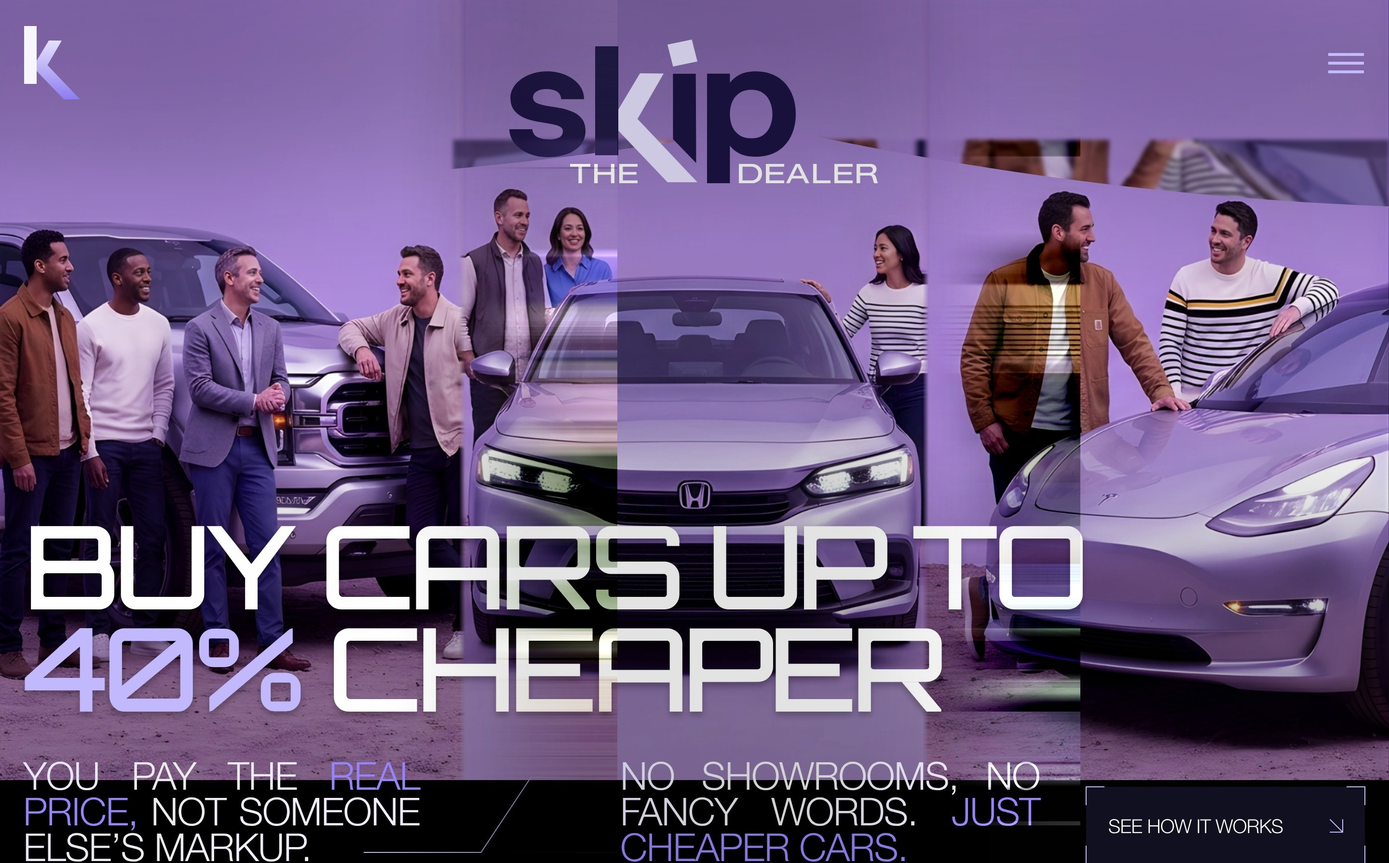
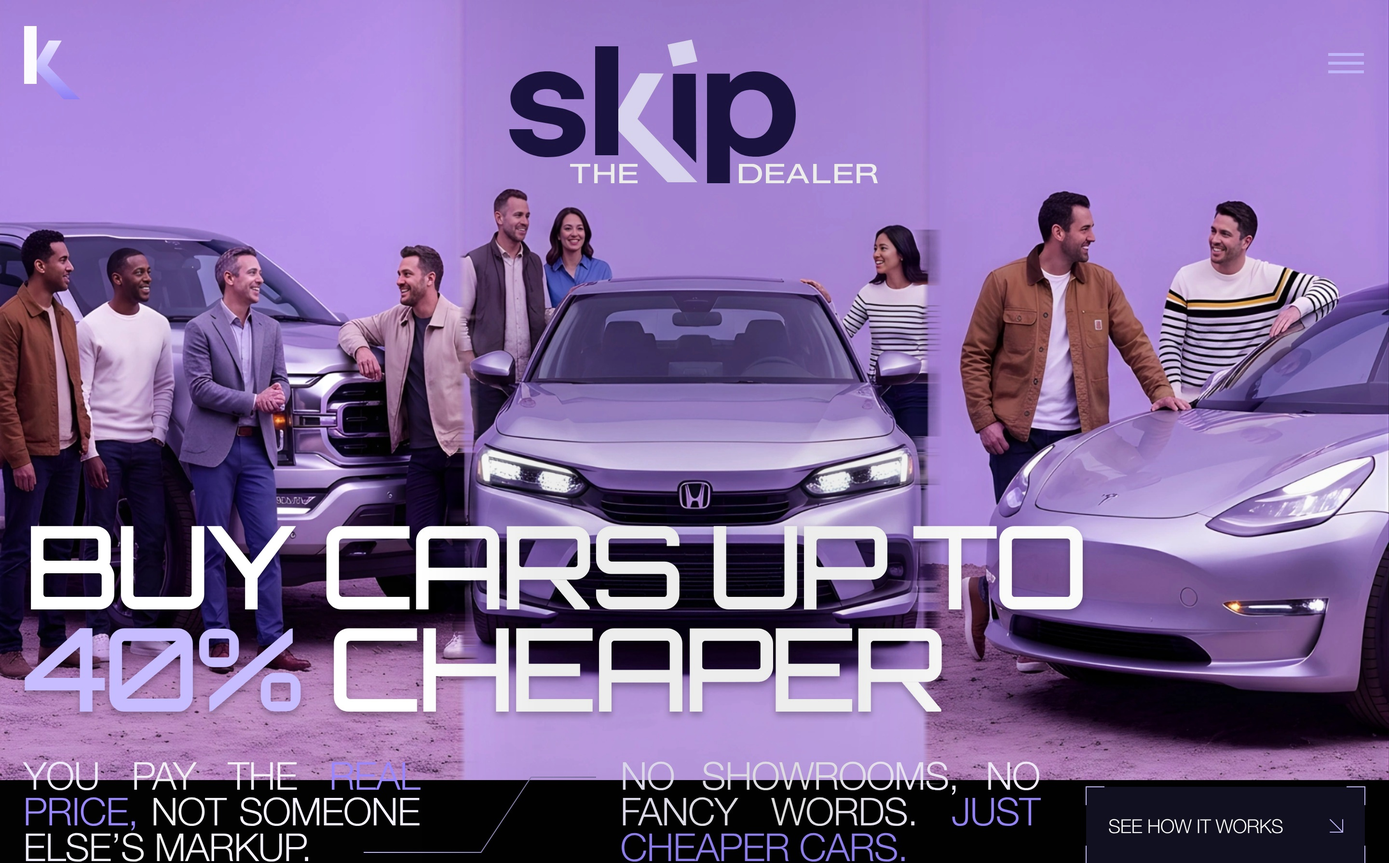
Fix hero glitches: strip the 5 foreignObject backdrop-filter blocks and the two 0.30-opacity Ellipse groups that Chrome rendered as black/milky rectangles inside the SVG; rebuild the frame from the clean render, level the collage panels, contain-fit with edge-coloured letterbox

diff --git a/assets/css/page-dealer-hero.css b/assets/css/page-dealer-hero.css
@@ -12,15 +12,11 @@ html, body {
 
 .page-dealer-hero { background: #020202; }
 
-/* ══ HERO — 1:1 з макетом Figma ═════════════════════════════════════════ */
-/* Герой — це сам експорт Figma: vector SVG з viewBox 0 0 1440 895, у якому
-   лежить і фото (вбудований webp 2400px), і весь текст, і намальований ≡,
-   і CTA. Нічого не перезбирається з частин і не растеризується, тому
-   результат ідентичний макету 1:1 — і лишається векторним (чітким) при
-   будь-якому масштабі.
-   Артборд вписується цілком (contain) по обох осях: композиція ніколи не
-   обрізається, CTA завжди в кадрі. Поля, які лишає contain, заповнюються тим
-   самим кадром у блюрі — тобто продовженням фото, а не порожнечею. */
+/* ══ HERO — 1:1 з макетом, цілком у кадрі ═══════════════════════════════ */
+/* Кадр — один растровий рендер артборда Figma (2880x1790 з оригінального SVG,
+   очищений від foreignObject-глюків). Вписується ЦІЛКОМ (contain) по обох осях:
+   композиція ніколи не обрізається. Поля заповнюються продовженням кадру:
+   зверху/знизу — кольором краю, зліва/справа — його ж крайніми колонками. */
 .dh {
   position: relative;
   width: 100%;
@@ -28,57 +24,39 @@ html, body {
   min-height: 420px;
   overflow: hidden;
   box-sizing: border-box;
-  background: #8165a7;   /* = точный цвет верхнего края кадра (129,101,167) */
+  /* колір = середній тон лівого/правого краю кадру, тому поля зливаються з ним */
+  background: #8b78b5;
 }
 
-/* Поля, которые оставляет contain-вписывание, продолжаются цветом самого края
-   макета: сверху — стена (96,66,139), снизу — тёмная полоса (33,25,43),
-   слева/справа — края стены. Разброс цвета по краю < 10, поэтому плоская
-   заливка неотличима от продолжения кадра и ничего не срезает. */
-.dh::before,
-.dh::after {
-  content: "";
+.dh__pad-top,
+.dh__pad-bottom {
   position: absolute;
   left: 0;
   right: 0;
+  height: var(--pad-y, 0px);
   pointer-events: none;
-  z-index: 0;
+  z-index: 1;
 }
-.dh::before {
-  top: 0;
-  height: var(--dh-pad-top, 0px);
-  background: #8165a7;   /* точный верхний край кадра */
-}
-.dh::after {
-  bottom: 0;
-  height: var(--dh-pad-bottom, 0px);
-  background: #050408;   /* точный нижний край кадра */
-}
+.dh__pad-top    { top: 0;    background: #7d63a8; }   /* верхний край кадра */
+.dh__pad-bottom { bottom: 0; background: #0a0710; }   /* нижний край кадра */
 
-/* сам артборд Figma, 1:1, vector */
-.dh__art {
+
+.dh__frame {
   position: absolute;
   left: 50%;
   top: 50%;
-  width: 1440px;
-  height: 895px;
-  /* s = min(W/1440, H/895), задається з JS */
-  transform: translate(-50%, -50%) scale(var(--dh-s, 1));
-  transform-origin: center center;
-  box-sizing: border-box;
-  z-index: 1;
-}
-
-.dh__art-img {
-  position: absolute;
-  inset: 0;
-  width: 100%;
-  height: 100%;
+  transform: translate(-50%, -50%);
   display: block;
-  object-fit: fill;
+  z-index: 2;
 }
 
-
+.dh__stage {
+  position: absolute;
+  left: 50%;
+  top: 50%;
+  transform: translate(-50%, -50%);
+  z-index: 3;
+}
 
 .dh__hit, .dh__burger { position: absolute; }
 

diff --git a/assets/js/page-dealer-hero.js b/assets/js/page-dealer-hero.js
@@ -47,46 +47,37 @@
 
   // --u is the size of one design pixel in viewport pixels: the stage is always
   // a 1440x895 box contain-fitted, and all artwork is positioned in design %.
-  var ART_W = 1440, ART_H = 895, heroEl = null, artEl = null;
+  var ART_W = 1440, ART_H = 895, heroEl = null;
 
   function syncScale() {
-    if (!heroEl || !artEl) return;
+    if (!heroEl) return;
     var W = heroEl.clientWidth, H = heroEl.clientHeight;
     if (!W || !H) return;
-    // contain-fit: the full artboard (CTA included) is always on screen, and the
-    // same factor drives the menu popover so it never diverges from the artwork
-    // Contain-fit, no shrink: the frame is 16:9, so on any 16:9 screen it fills
-    // the viewport exactly and the CTA sits on the bottom edge like the design.
+    var frameEl = heroEl.querySelector('.dh__frame');
+    var stageEl = heroEl.querySelector('.dh__stage');
+    if (!frameEl || !stageEl) return;
+
+    // contain: кадр цілком у вьюпорті, з тим самим співвідношенням 1440:895
     var s = Math.min(W / ART_W, H / ART_H);
+    var fw = ART_W * s, fh = ART_H * s;
+
+    frameEl.style.width = fw + 'px';
+    frameEl.style.height = fh + 'px';
+    stageEl.style.width = fw + 'px';
+    stageEl.style.height = fh + 'px';
+
+    var padY = Math.max(0, (H - fh) / 2);
+    heroEl.style.setProperty('--pad-y', padY.toFixed(1) + 'px');
+    heroEl.style.setProperty('--frame-w', fw.toFixed(1) + 'px');
+    heroEl.style.setProperty('--frame-h', fh.toFixed(1) + 'px');
+    heroEl.style.setProperty('--pad-x', ((W - fw) / 2).toFixed(1) + 'px');
     heroEl.style.setProperty('--dh-s', String(s));
-
-    // Поля по вертикали продолжаются цветом краёв макета (см. .dh::before/::after),
-    // поэтому их высота должна быть известна точно.
-    var padY = Math.max(0, (H - ART_H * s) / 2);
-    heroEl.style.setProperty('--dh-pad-top', padY.toFixed(1) + 'px');
-    heroEl.style.setProperty('--dh-pad-bottom', padY.toFixed(1) + 'px');
-    artEl.style.setProperty('--dh-s', String(s));
-
-    // place the (unscaled) menu popover under the burger, and scale its metrics
-    var burger = document.getElementById('dh-burger');
-    var menu = document.getElementById('dh-menu');
-    if (!burger || !menu) return;
-    var br = burger.getBoundingClientRect();
-    menu.style.top = Math.round(br.bottom + 4) + 'px';
-    menu.style.left = Math.round(br.right - 289 * s) + 'px';
-    menu.style.maxHeight = Math.round(innerHeight - br.bottom - 16) + 'px';
-    menu.style.setProperty('--dh-menu-w', (289 * s).toFixed(1) + 'px');
-    menu.style.setProperty('--dh-row-h', (43.4 * s).toFixed(2) + 'px');
-    menu.style.setProperty('--dh-row-fs', (15 * s).toFixed(2) + 'px');
-    menu.style.setProperty('--dh-row-px', (18 * s).toFixed(2) + 'px');
-    menu.style.setProperty('--dh-row-icon', (14 * s).toFixed(2) + 'px');
   }
 
   function init() {
     burger = document.querySelector('#dh-burger');
     menu = document.querySelector('#dh-menu');
     heroEl = document.querySelector('.dh');
-    artEl = document.querySelector('.dh__art');
 
     syncScale();
     window.addEventListener('resize', syncScale);

diff --git a/skipthedealer-extended.html b/skipthedealer-extended.html
@@ -9,13 +9,16 @@
   <link rel="preload" href="assets/fonts/Orbitron-Variable.woff2" as="font" type="font/woff2" crossorigin>
   <link rel="preload" href="assets/fonts/HelveticaNeue-light.woff2" as="font" type="font/woff2" crossorigin>
   <link rel="stylesheet" href="assets/css/site1.css">
-  <link rel="stylesheet" href="assets/css/page-dealer-hero.css?v=20261112_5">
+  <link rel="stylesheet" href="assets/css/page-dealer-hero.css?v=20261113_1">
 </head>
 <body class="page-dealer-hero" id="top">
 
 <section class="dh" id="home" aria-label="SkipTheDealer Hero">
   <!-- цельный кадр 2560x1440 без стыков панелей: заголовок, водяной знак,
        нижний текст и CTA уже нарисованы в нём -->
+  <div class="dh__pad-top" aria-hidden="true"></div>
+  <div class="dh__pad-bottom" aria-hidden="true"></div>
+
   <img src="assets/img/site1/hero-frame.jpg" class="dh__frame" alt="SkipTheDealer \u2014 Buy Cars Up To 40% Cheaper" fetchpriority="high">
 
   <div class="dh__stage">
@@ -103,6 +106,6 @@
   </div>
 </div>
 
-<script src="assets/js/page-dealer-hero.js?v=20261112_5"></script>
+<script src="assets/js/page-dealer-hero.js?v=20261113_1"></script>
 </body>
 </html>

diff --git a/skipthedealer.html b/skipthedealer.html
@@ -9,13 +9,16 @@
   <link rel="preload" href="assets/fonts/Orbitron-Variable.woff2" as="font" type="font/woff2" crossorigin>
   <link rel="preload" href="assets/fonts/HelveticaNeue-light.woff2" as="font" type="font/woff2" crossorigin>
   <link rel="stylesheet" href="assets/css/site1.css">
-  <link rel="stylesheet" href="assets/css/page-dealer-hero.css?v=20261112_5">
+  <link rel="stylesheet" href="assets/css/page-dealer-hero.css?v=20261113_1">
 </head>
 <body class="page-dealer-hero" id="top">
 
 <section class="dh" id="home" aria-label="SkipTheDealer Hero">
   <!-- цельный кадр 2560x1440 без стыков панелей: заголовок, водяной знак,
        нижний текст и CTA уже нарисованы в нём -->
+  <div class="dh__pad-top" aria-hidden="true"></div>
+  <div class="dh__pad-bottom" aria-hidden="true"></div>
+
   <img src="assets/img/site1/hero-frame.jpg" class="dh__frame" alt="SkipTheDealer \u2014 Buy Cars Up To 40% Cheaper" fetchpriority="high">
 
   <div class="dh__stage">
@@ -103,6 +106,6 @@
   </div>
 </div>
 
-<script src="assets/js/page-dealer-hero.js?v=20261112_5"></script>
+<script src="assets/js/page-dealer-hero.js?v=20261113_1"></script>
 </body>
 </html>
